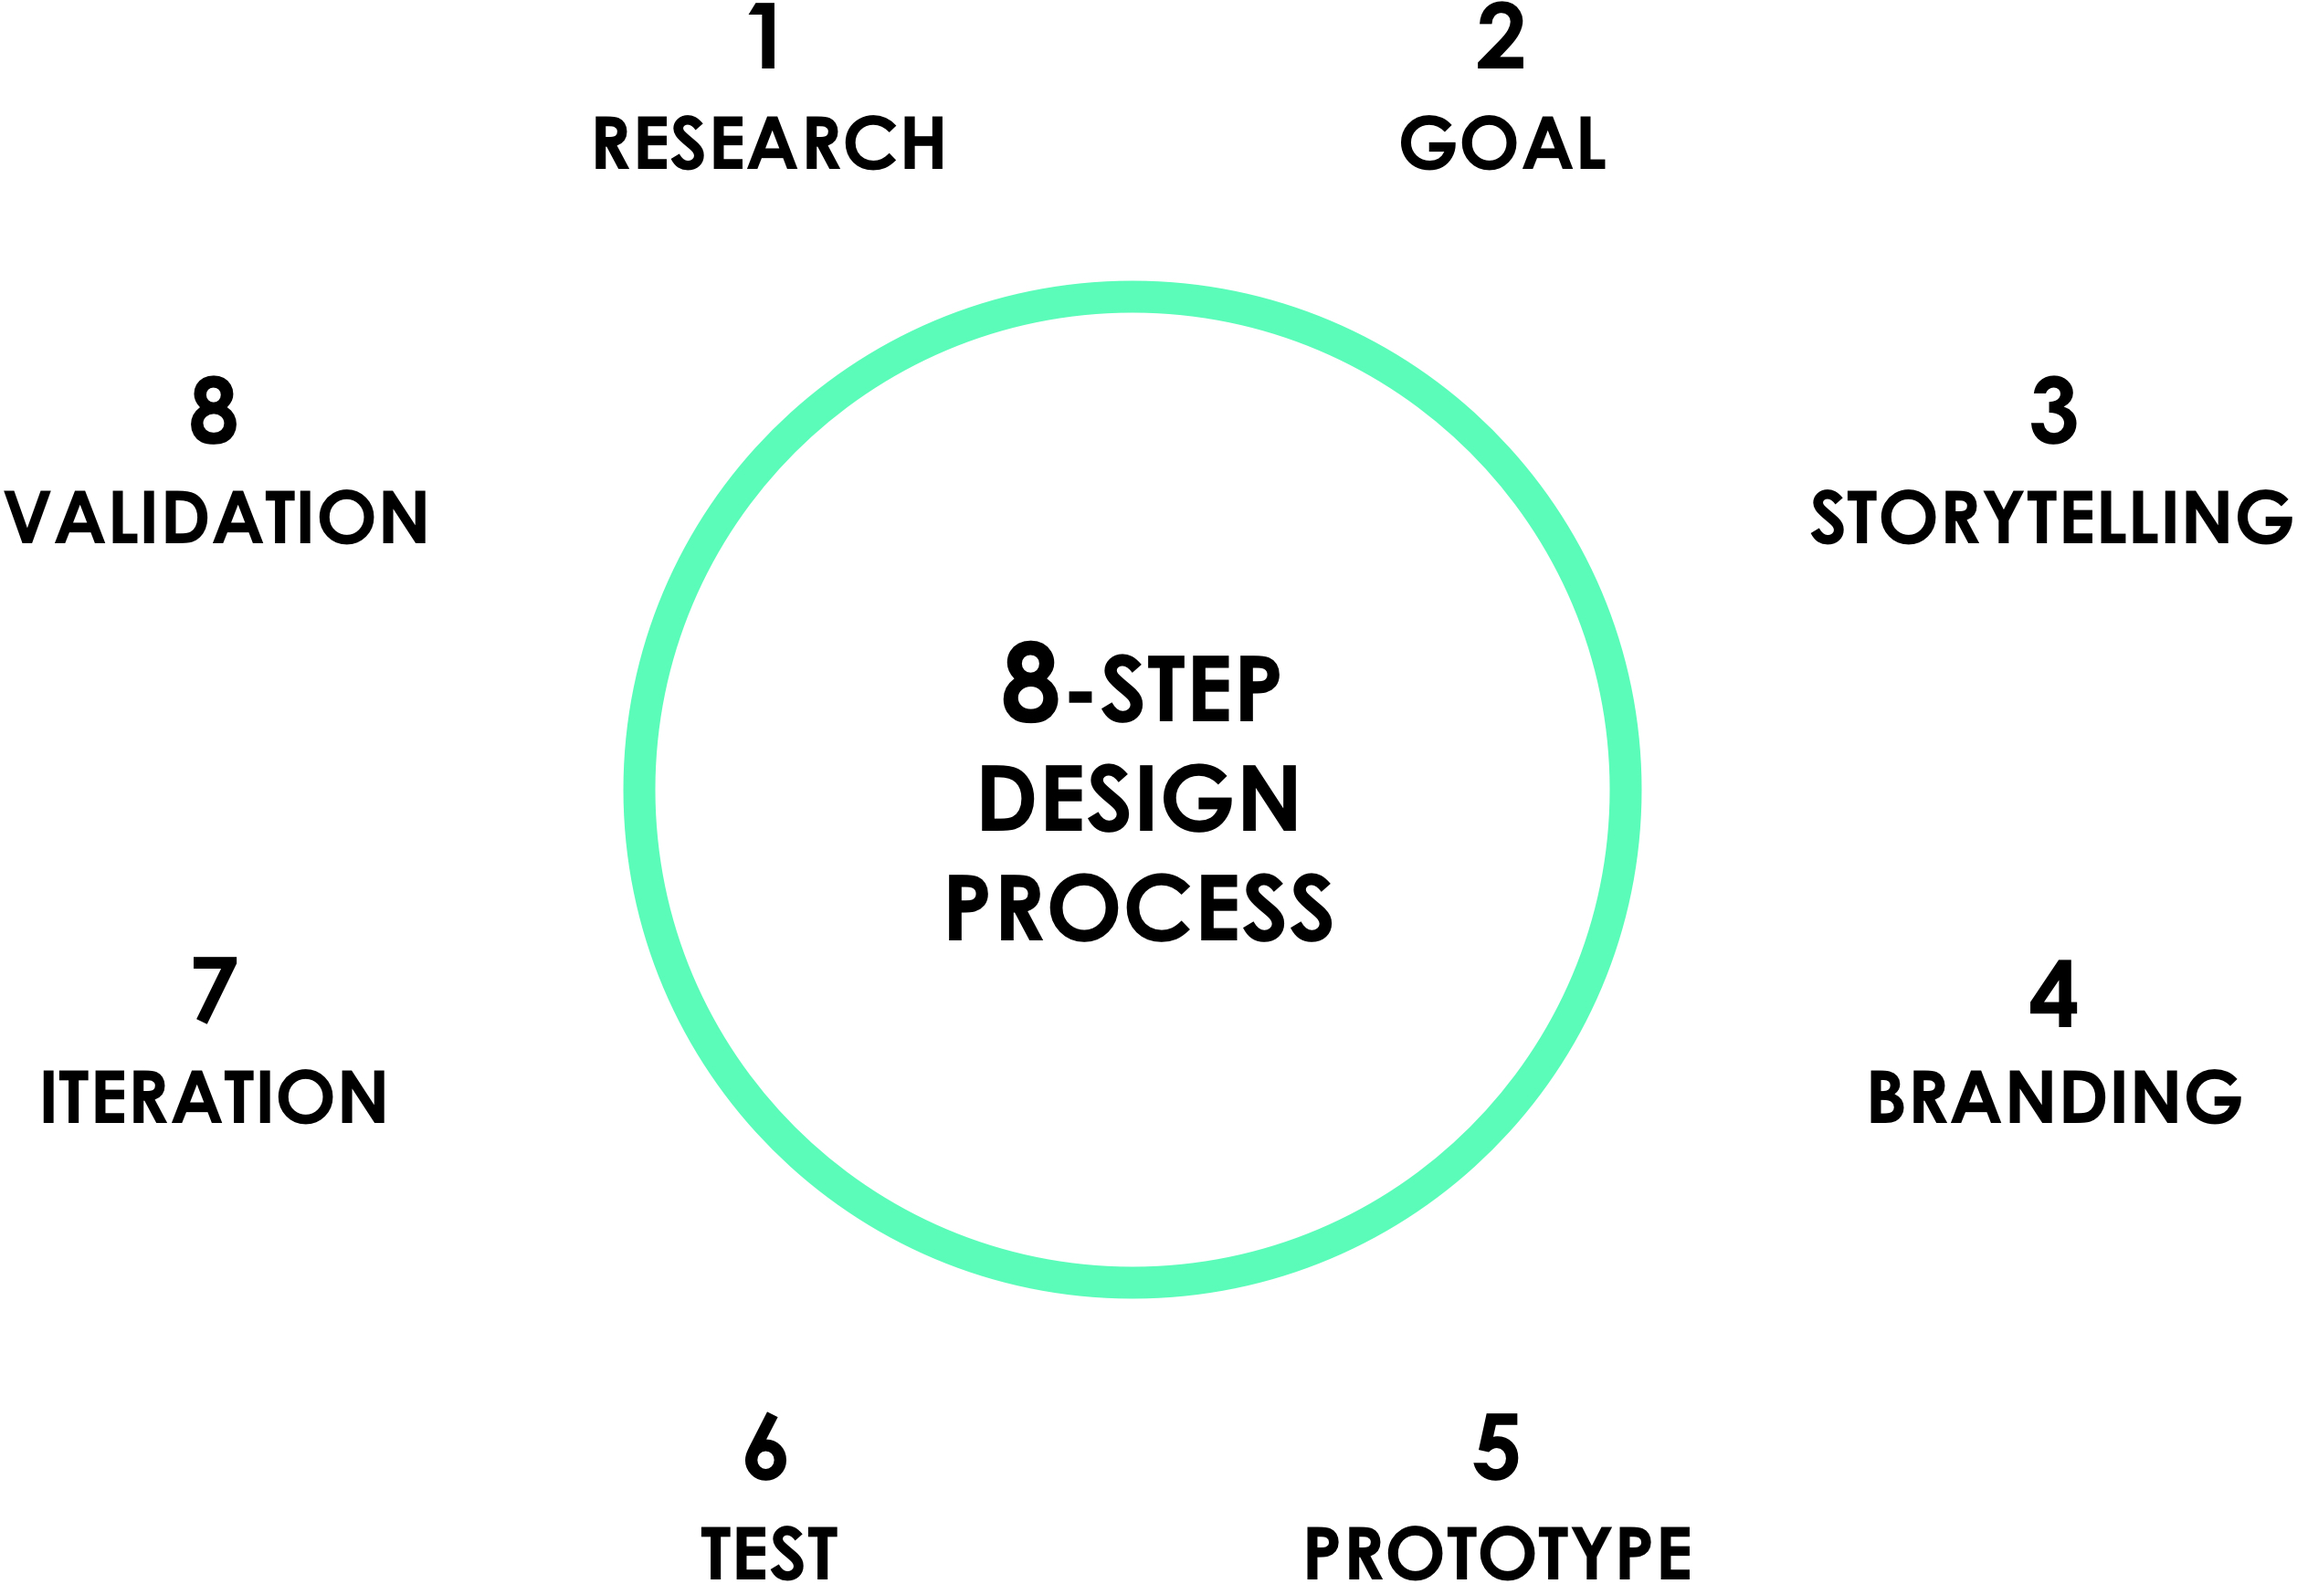
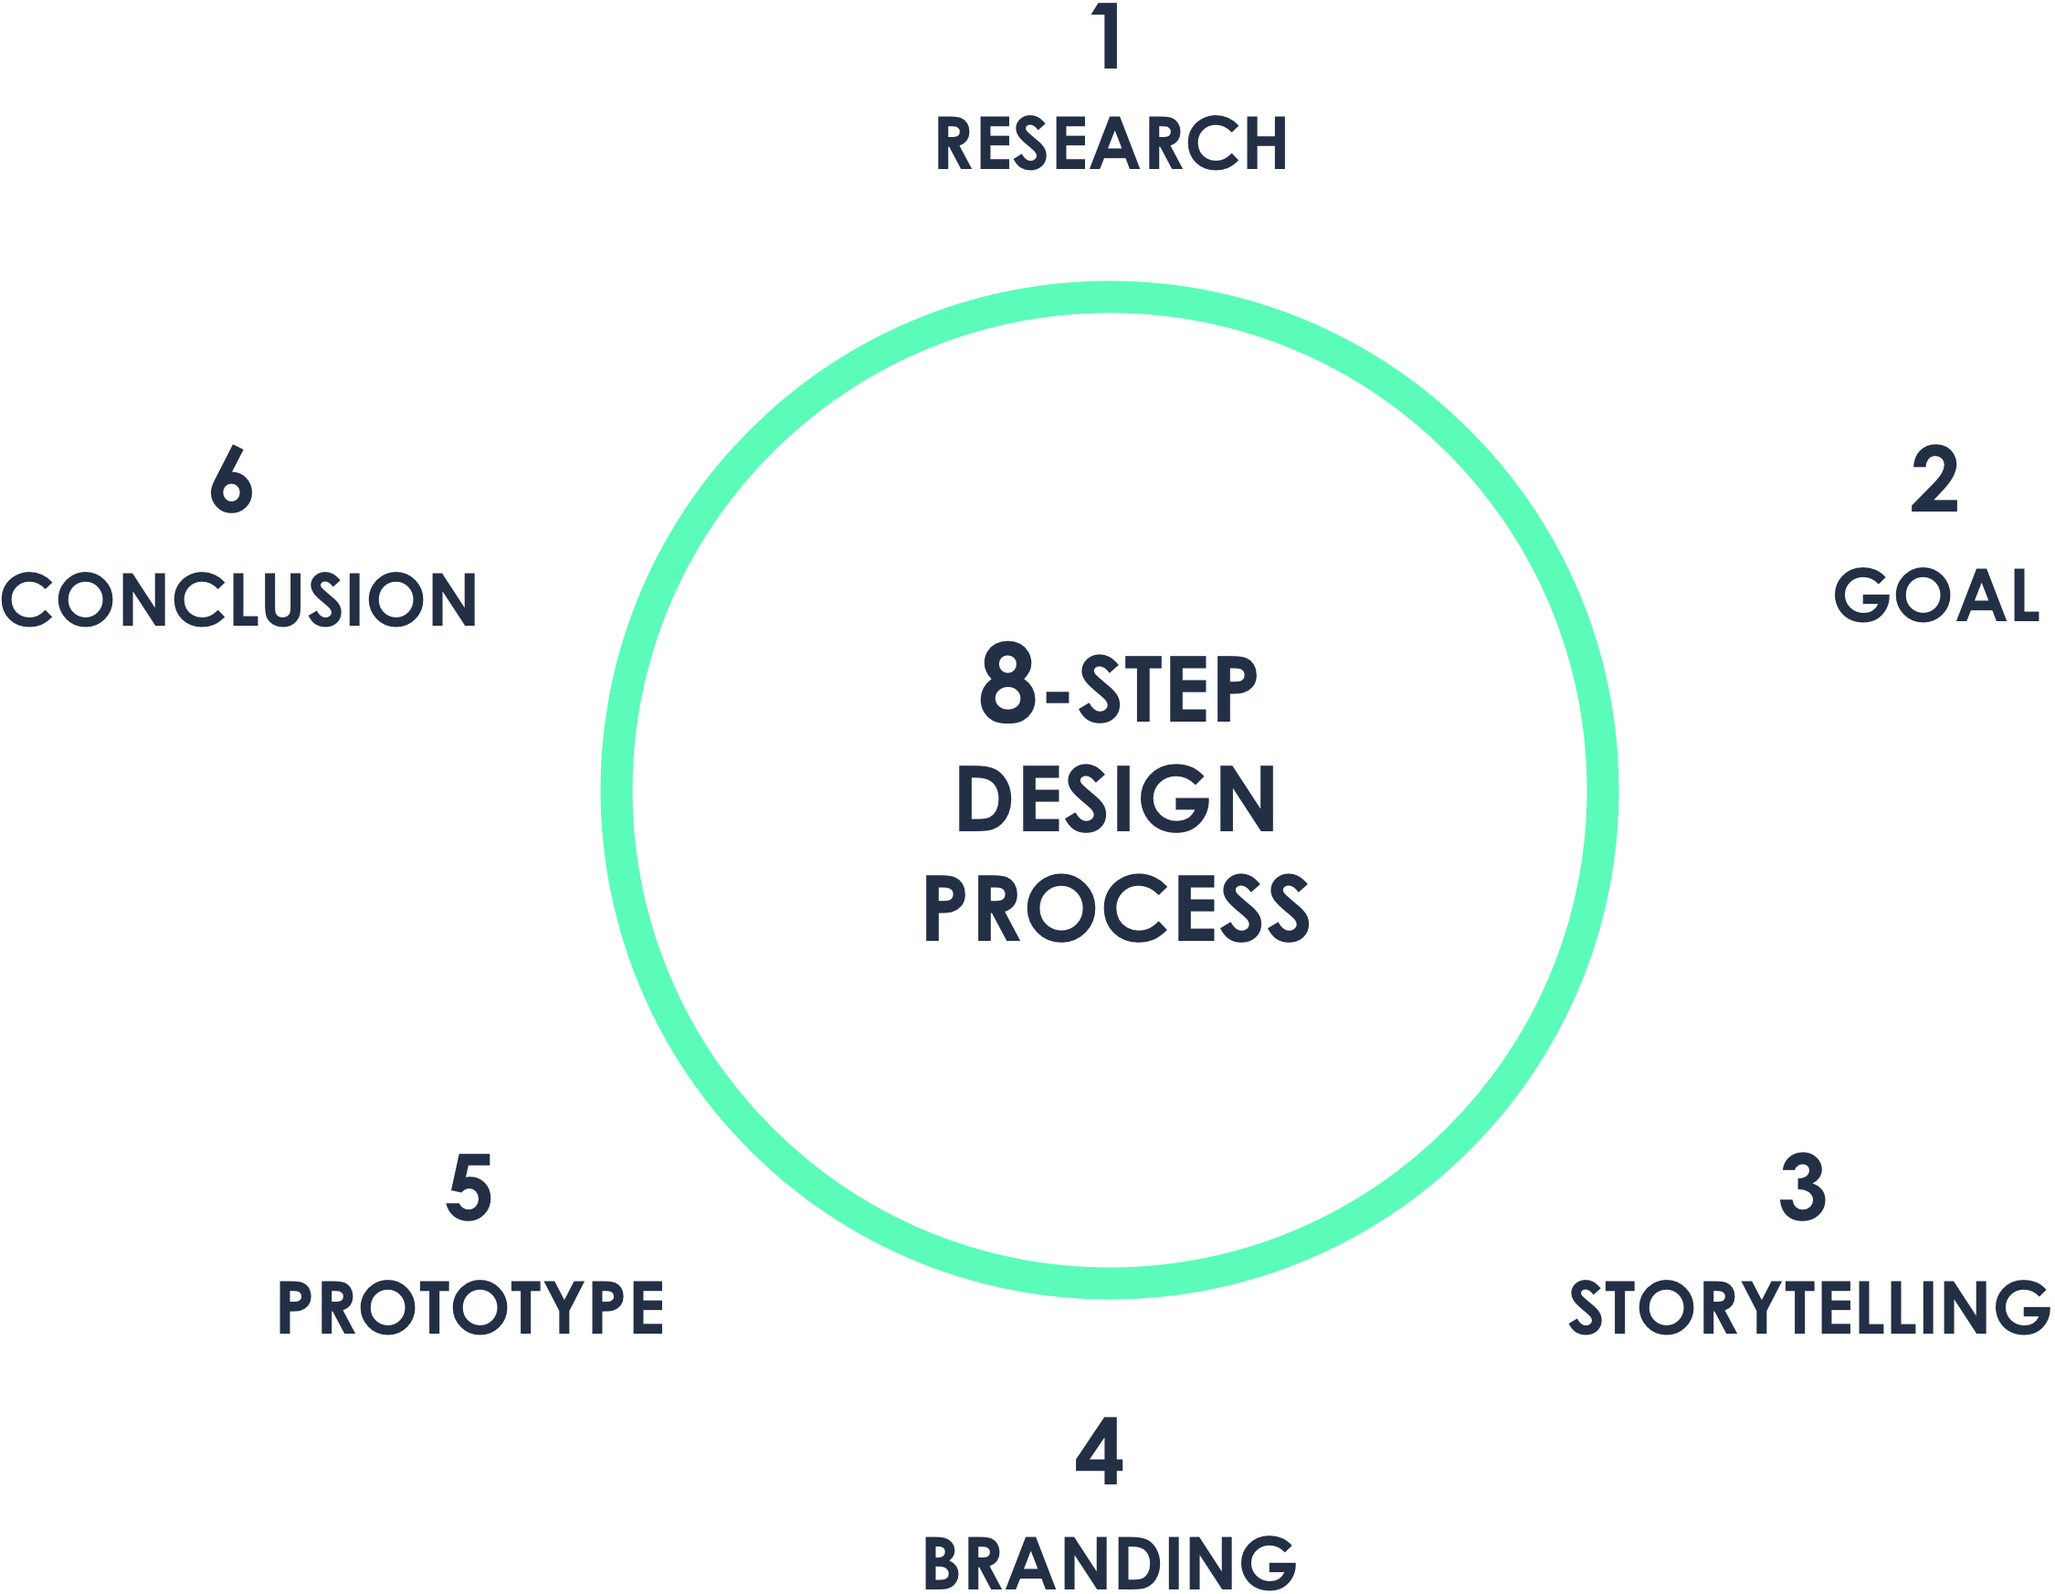
portfolio

diff --git a/myprocess.html b/myprocess.html
@@ -94,10 +94,36 @@
       </div>
       <div class="eight columns offset-by-two">
         <div class="mypvalidationb">
-          
+          <div class="pcsurveyb" style="margin-top: 30px">
+            <ul style="list-style-type:circle">
+              <li>Survey + Interview</li>
+                <ul style="list-style-type:circle">
+                  <li>Personal + Behavioral Questions (What + Why + How)</li>
+                </ul>
+                <ul style="list-style-type:circle">
+                  <li>Observation of users</li>
+                </ul>
+            </ul>
+            <ul style="list-style-type:circle">
+              <li>Competitive Market Analysis</li>
+                <ul style="list-style-type:circle">
+                  <li>Compare + Contrast with other companies</li>
+                </ul>
+                <ul style="list-style-type:circle">
+                  <li>SWOT Analysis of competitive companies</li>
+                </ul>
+                <ul style="list-style-type:circle">
+                  <li>Learn from their success</li>
+                </ul>
+                 <ul style="list-style-type:circle">
+                  <li>Opportunity to make it better</li>
+                </ul>               
+            </ul>
+          </div>
         </div>
       </div>
     </div>
+
 
     <div class="row">
       <div class="eight columns offset-by-two" style="margin-top: 30px">
@@ -107,25 +133,59 @@
       </div>
       <div class="eight columns offset-by-two">
         <div class="mypvalidationb">
-          
+          <div class="pcsurveyb" style="margin-top: 30px">
+            <ul style="list-style-type:circle">
+              <li>Minimum (Valuable Viable Validatable) Product</li>
+                <ul style="list-style-type:circle">
+                  <li>Valuable (Is this product important + impactful to our environment?)</li>
+                </ul>
+                <ul style="list-style-type:circle">
+                  <li>Validate (Does it validate your vision + idea?)</li>
+                </ul>
+                <ul style="list-style-type:circle">
+                  <li>Viable (Is it a good profitable business?)</li>
+                </ul>
+            </ul>
+          </div>
         </div>
       </div>
     </div>
-
-    <div class="row">
+    
+    
+     <div class="row">
       <div class="eight columns offset-by-two" style="margin-top: 30px">
         <div class="mypvalidation">
-          <h6><b>STORYTELLING</b></h6> <hr>
+          <h6><b>STORY-TELLING</b></h6> <hr>
         </div>
       </div>
       <div class="eight columns offset-by-two">
         <div class="mypvalidationb">
-          
+          <div class="pcsurveyb" style="margin-top: 30px">
+            <ul style="list-style-type:circle">
+              <li>User Persona</li>
+                <ul style="list-style-type:circle">
+                  <li>Empathize with them + know them (or at least show that you care)</li>
+                  <li>Pain points + preferences</li>
+                </ul>
+            </ul>
+            <ul style="list-style-type:circle">
+              <li>User Story</li>
+                <ul style="list-style-type:circle">
+                  <li>All the wishes + expectations of the users</li>
+                </ul>
+            </ul>
+            <ul style="list-style-type:circle">
+              <li>User FLow</li>
+                <ul style="list-style-type:circle">
+                  <li>All the actions listed in order</li>
+                </ul>
+            </ul>
+          </div>
         </div>
       </div>
     </div>
 
-    <div class="row">
+     <div class="row">
       <div class="eight columns offset-by-two" style="margin-top: 30px">
         <div class="mypvalidation">
           <h6><b>BRANDING</b></h6> <hr>
@@ -133,36 +193,91 @@
       </div>
       <div class="eight columns offset-by-two">
         <div class="mypvalidationb">
-          
+          <div class="pcsurveyb" style="margin-top: 30px">
+            <ul style="list-style-type:circle">
+              <li>Naming of Brand</li>
+                <ul style="list-style-type:circle">
+                  <li>What is it inspired by?</li>
+                  <li>Is it personal?</li>
+                  <li>Example: Patagonia & Yvon Chouinard</li>
+                </ul>
+            </ul>
+            <ul style="list-style-type:circle">
+              <li>Typography</li>
+                <ul style="list-style-type:circle">
+                  <li>Is it easy to read?</li>
+                  <li>Does it "fit" or "align" with your brand?</li>
+                </ul>
+            </ul>
+            <ul style="list-style-type:circle">
+              <li>Logo</li>
+                <ul style="list-style-type:circle">
+                  <li>Is it meaningful</li>
+                  <li>What is it inspired by?</li>
+                  <li>Does it align with your business philosophy?</li>
+                  <li>Example: Patagonia, Prana, The North Face</li>
+                </ul>
+            </ul>
+
+          </div>
         </div>
       </div>
     </div>
 
-    <div class="row">
+  <div class="row">
       <div class="eight columns offset-by-two" style="margin-top: 30px">
         <div class="mypvalidation">
-          <h6><b>PROTOTYPING</b></h6> <hr>
+          <h6><b>PROTOTYPE</b></h6> <hr>
         </div>
       </div>
       <div class="eight columns offset-by-two">
         <div class="mypvalidationb">
-          
+          <div class="pcsurveyb" style="margin-top: 30px">
+
+            <ul style="list-style-type:circle">
+              <li>Prototype</li>
+                <ul style="list-style-type:circle">
+                  <li>Low-Fidelity</li>
+                  <li>High-Fidelity</li>
+                </ul>
+            </ul>
+
+          </div>
         </div>
       </div>
     </div>
 
-    <div class="row">
-      <div class="eight columns offset-by-two" style="margin-top: 30px">
-        <div class="mypvalidation">
-          <h6><b>CONCLUSION</b></h6> <hr>
+<div class="row">
+  <div class="eight columns offset-by-two" style="margin-top: 30px">
+    <div class="mypvalidation">
+      <h6><b>CONCLUSION</b></h6> <hr>
         </div>
       </div>
       <div class="eight columns offset-by-two">
         <div class="mypvalidationb">
-      
+          <div class="pcsurveyb" style="margin-top: 20px">
+            <ul style="list-style-type:circle">
+              <li>Testing</li>
+            </ul>
+            <ul style="list-style-type:circle">
+              <li>Feedbacks</li>
+                <ul style="list-style-type:circle">
+                  <li>Reviewing feedbacks</li>
+                  <li>Iterating the design process</li>
+                  <li>Solving the negative feedbacks and others</li>
+                </ul>
+            </ul>
+            <ul style="list-style-type:circle">
+              <li>Iterate all of the above till Validation</li>
+            </ul>
+          </div>
         </div>
       </div>
     </div>
+
+
+
+
 
 </div>
 
